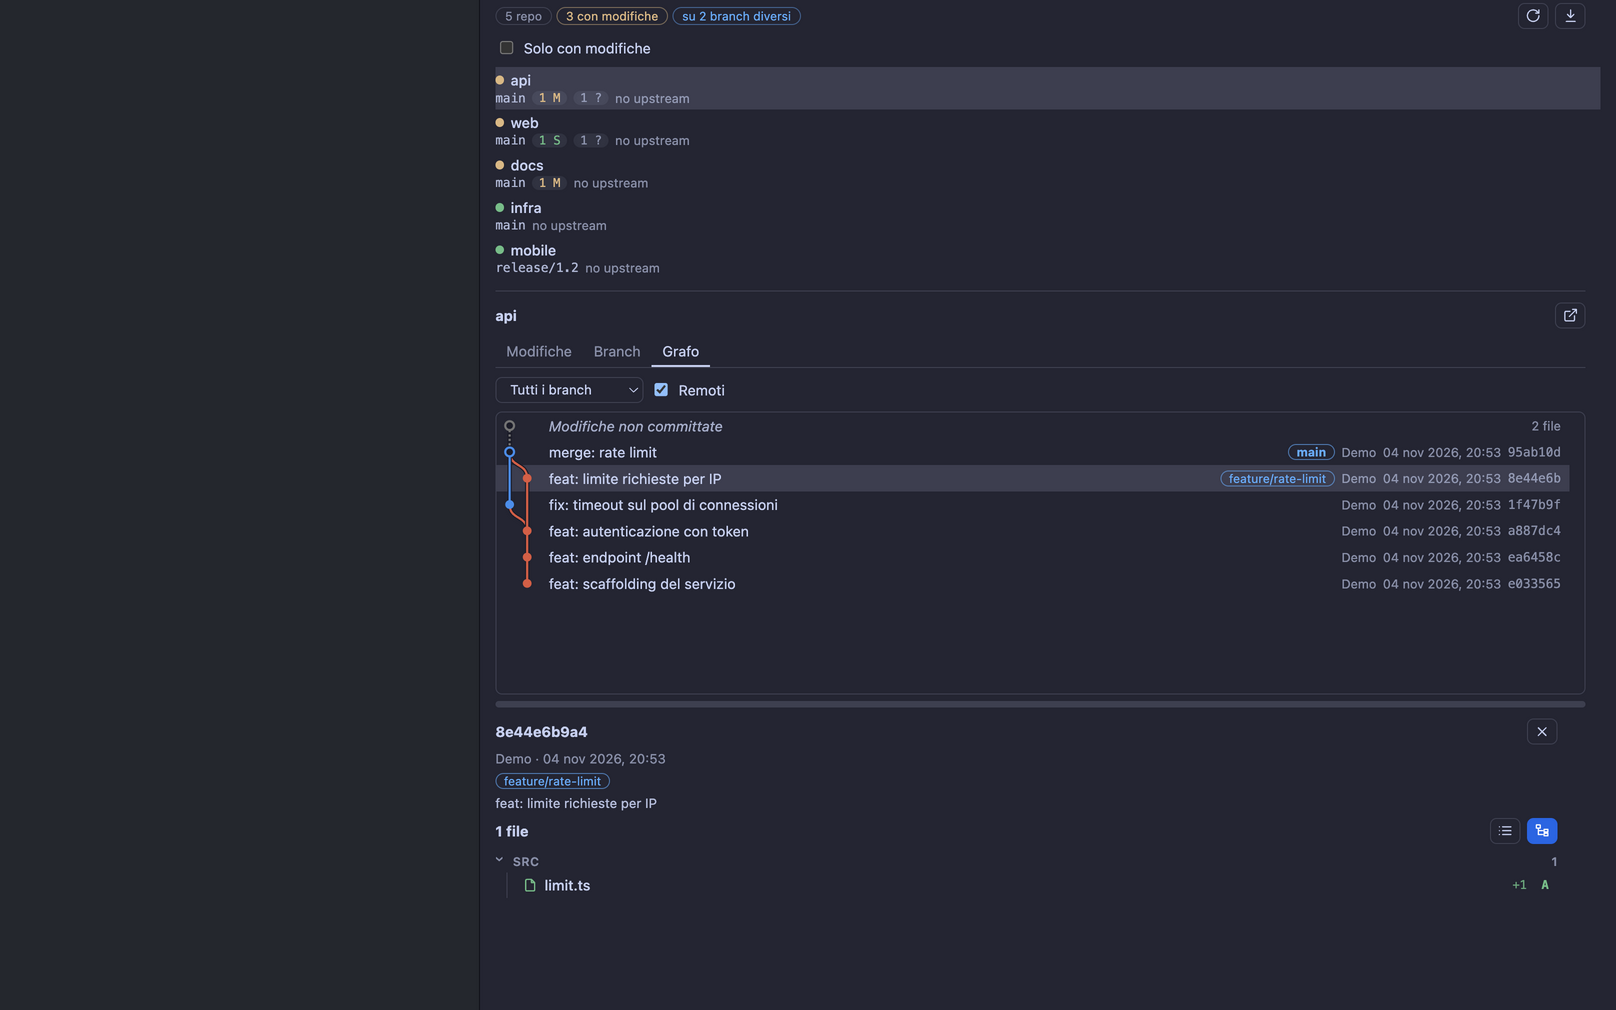
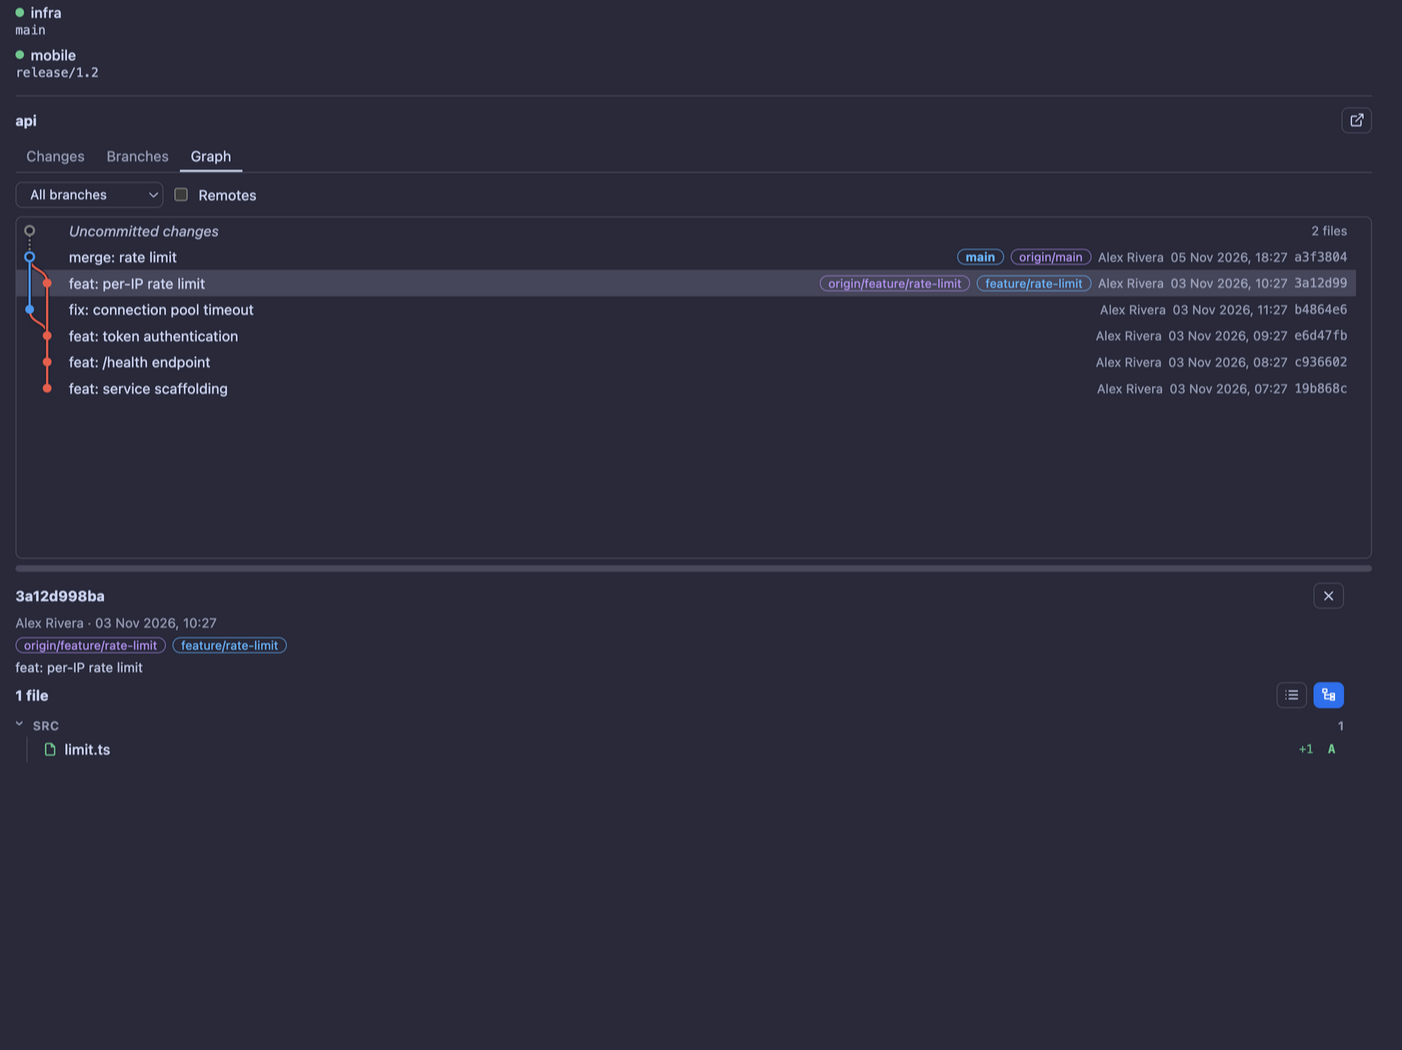
release 0.1.5: fetch per repo con spinner, note che si chiudono, MIT, descrizione e screenshot rifatti
- fetch orchestrato dal pannello, un repo per richiesta (3 in parallelo), spinner sulla riga
- esito ok sparisce dopo 8 s, clic per chiudere, nota azzerata al cambio di workspace
- processi di lettura/fetch uccisi con SIGKILL allo scadere del timeout
- manifest: license MIT, descrizione orientata al problema, due screenshot e nuova cover
- README: apertura sul problema risolto

diff --git a/panel/main.ts b/panel/main.ts
@@ -14,6 +14,7 @@ import type {
   ChangedFile,
   FileCommit,
   FileEntry,
+  FetchResult,
   FileGroup,
   GraphCommit,
   RepoStatus,
@@ -85,6 +86,8 @@ const S = {
   tookMs: 0,
   failure: null as string | null,
   note: '',
+  /** Percorsi dei repo con un fetch in corso (spinner sulla riga). */
+  fetching: new Set<string>(),
   onlyDirty: false,
   tab: 'changes' as Tab,
   selected: null as string | null,
@@ -241,6 +244,8 @@ async function refresh(): Promise<void> {
 async function refreshOnce(): Promise<void> {
   try {
     const a = await req('repos.list');
+    // Gruppo diverso (cambio workspace): note e fetch del gruppo precedente non valgono più.
+    if (S.root && S.root !== a.root) S.note = '';
     S.repos = a.repos;
     S.root = a.root;
     S.source = a.source;
@@ -504,15 +509,52 @@ async function openRepo(repo: RepoStatus): Promise<void> {
   }
 }
 
-/** Il worker fa fetch a 3 alla volta, 120 s al massimo ciascuno: la richiesta non può durare meno. */
-const FETCH_ALL_TIMEOUT_MS = 600_000;
+/** Fetch contemporanei (come la coda del worker) e tetto per singolo repo: il timer parte solo a fetch avviato. */
+const FETCH_PARALLEL = 3;
+const NOTE_OK_MS = 8_000;
+const FETCH_TIMEOUT_MS = 130_000;
 
 async function fetchAll(): Promise<void> {
+  if (S.fetching.size) return;
+  const repos = [...S.repos];
+  const t0 = Date.now();
+  const results: FetchResult[] = [];
+  const queue = [...repos];
   S.note = t('fetchRunning');
+  S.fetching = new Set();
   render();
-  const r = await call('Fetch', 'repos.fetch', undefined, FETCH_ALL_TIMEOUT_MS);
-  if (r) {
-    S.note = fetchReport(r.results, r.tookMs, t);
+  const worker = async (): Promise<void> => {
+    for (let r = queue.shift(); r; r = queue.shift()) {
+      S.fetching.add(r.path);
+      render();
+      try {
+        const o = await req('repo.fetch', { path: r.path }, FETCH_TIMEOUT_MS);
+        results.push({ name: r.name, error: o.error });
+      } catch (e) {
+        results.push({ name: r.name, error: msg(e) });
+      } finally {
+        S.fetching.delete(r.path);
+        render();
+      }
+    }
+  };
+  try {
+    await Promise.all(Array.from({ length: FETCH_PARALLEL }, worker));
+    const report = fetchReport(results, Date.now() - t0, t);
+    S.note = report;
+    // Esito tutto ok: sparisce da solo; con errori resta finché non si clicca.
+    if (!results.some((x) => x.error)) {
+      setTimeout(() => {
+        if (S.note === report) {
+          S.note = '';
+          render();
+        }
+      }, NOTE_OK_MS);
+    }
+  } catch (e) {
+    S.note = `Fetch: ${msg(e)}`;
+  } finally {
+    S.fetching = new Set();
   }
   await refresh();
 }
@@ -612,7 +654,9 @@ function repoRow(r: RepoStatus): HTMLElement {
     h(
       'div',
       { class: 'title frow' },
-      h('span', { class: `dot d-${state}` }),
+      S.fetching.has(r.path)
+        ? h('span', { class: 'spin', title: t('fetchRunning') })
+        : h('span', { class: `dot d-${state}` }),
       h('span', { class: 'fname' }, r.name),
       arrows,
     ),
@@ -1389,7 +1433,19 @@ function render(): void {
       t('onlyDirty'),
     ),
     S.failure && h('div', { class: 'note err' }, S.failure),
-    S.note && h('div', { class: 'note warn' }, S.note),
+    S.note &&
+      h(
+        'div',
+        {
+          class: 'note warn',
+          title: t('tipDismiss'),
+          onclick: () => {
+            S.note = '';
+            render();
+          },
+        },
+        S.note,
+      ),
     viewRepos(),
     h('hr'),
     viewDetail(),
@@ -1467,7 +1523,7 @@ hr { width:100%; border:0; border-top:1px solid var(--line); margin:2px 0 }
 .title { font-weight:500; overflow:hidden; text-overflow:ellipsis; white-space:nowrap }
 .desc { font-size:11.5px; color:var(--dim); overflow:hidden; text-overflow:ellipsis; white-space:nowrap }
 .repo { padding-top:6px; padding-bottom:6px } .repo .desc { margin-top:2px; gap:6px }
-.dot { flex:none; width:8px; height:8px; border-radius:50% } .d-ok { background:#73c991 } .d-warn { background:#e2c08d } .d-info { background:#6cb6ff }
+.dot { flex:none; width:8px; height:8px; border-radius:50% } .spin { flex:none; width:8px; height:8px; box-sizing:border-box; border-radius:50%; border:1.5px solid color-mix(in srgb, var(--orca-foreground) 25%, transparent); border-top-color:var(--orca-foreground); animation:spin .8s linear infinite } @keyframes spin { to { transform:rotate(360deg) } } .d-ok { background:#73c991 } .d-warn { background:#e2c08d } .d-info { background:#6cb6ff }
 .d-danger { background:#f0705f } .d-err { background:transparent; border:1.5px solid #f0705f; box-sizing:border-box }
 .arrows { flex:none; font:11.5px ui-monospace,monospace; color:var(--dim) } .branch { color:var(--orca-foreground); opacity:.85 }
 .err-text { color:var(--c-danger) }

diff --git a/src/worker.ts b/src/worker.ts
@@ -35,7 +35,11 @@ import type {
 const run = promisify(execFile);
 const STATUS_BAR_POLL_MS = 120_000;
 
-const GIT_ENV = { ...process.env, GIT_OPTIONAL_LOCKS: '0', GIT_TERMINAL_PROMPT: '0' };
+const GIT_ENV = {
+  ...process.env,
+  GIT_OPTIONAL_LOCKS: '0',
+  GIT_TERMINAL_PROMPT: '0',
+};
 const MAX_FILES = 2000;
 const GRAPH_MAX = 2000;
 /** Code separate: un fetch lento su ssh non deve far aspettare lo stato dei repo. */
@@ -58,6 +62,7 @@ async function git(
       run('git', ['-c', 'core.fsmonitor=false', '-c', 'color.ui=never', ...args], {
         cwd,
         timeout,
+        killSignal: 'SIGKILL' as const,
         maxBuffer: 8 << 20,
         env: GIT_ENV,
       }),
@@ -585,20 +590,15 @@ export default function activate(orca: OrcaWorkerApi): void {
       throw new Error('path outside the repository');
   }
 
-  orca.panels.handle('repos.fetch', async () => {
-    const t0 = Date.now();
-    const { root } = await resolveRoot(orca);
-    const names = await repoNames(root);
-    const results: FetchResult[] = await Promise.all(
-      names.map((name) =>
-        git(join(root, name), ['fetch', '--quiet', '--no-tags'], 120_000, fetchSlot).then(
-          () => ({ name }),
-          (e: Error) => ({ name, error: gitErrorLine(String(e.message)) }),
-        ),
-      ),
-    );
+  orca.panels.handle('repo.fetch', async ({ path }) => {
+    await assertRepo(path);
+    try {
+      await git(path, ['fetch', '--quiet', '--no-tags'], 120_000, fetchSlot);
+    } catch (e) {
+      return { error: gitErrorLine(String((e as Error).message)) };
+    }
     void updateStatusBar();
-    return { total: names.length, results, tookMs: Date.now() - t0 };
+    return {};
   });
 
   async function scanRepos(): Promise<{

diff --git a/src/protocol.ts b/src/protocol.ts
@@ -91,14 +91,10 @@ declare module 'orca' {
       input: { repoPath: string; file: string };
       output: { opened: boolean };
     };
-    /** Scrive su .git (refs remoti): solo su azione esplicita dell'utente. */
-    'repos.fetch': {
-      output: {
-        total: number;
-        /** Un esito per repo, nell'ordine di scansione; `error` assente = riuscito. */
-        results: FetchResult[];
-        tookMs: number;
-      };
+    /** Scrive su .git (refs remoti): solo su azione esplicita dell'utente. Un repo per richiesta. */
+    'repo.fetch': {
+      input: { path: string };
+      output: { error?: string };
     };
     'file.diff': {
       input: { path: string; file: string; group: FileGroup };

diff --git a/shared/i18n.ts b/shared/i18n.ts
@@ -110,6 +110,7 @@ const en = {
   commitErr: 'Commit: {msg}',
   tipCloseDetail: 'Close detail',
   tipSplitter: 'Drag to resize list and detail',
+  tipDismiss: 'Click to dismiss',
   // editor diff
   diffInvalid: 'Invalid file',
   diffBinary: 'Binary file: no text diff.',
@@ -221,6 +222,7 @@ const it: Record<Key, string> = {
   commitErr: 'Commit: {msg}',
   tipCloseDetail: 'Chiudi il dettaglio',
   tipSplitter: 'Trascina per ridimensionare lista e dettaglio',
+  tipDismiss: 'Clic per chiudere',
   diffInvalid: 'File non valido',
   diffBinary: 'File binario: nessun diff testuale.',
   diffNone: 'Nessuna differenza testuale.',

diff --git a/README.md b/README.md
@@ -1,9 +1,13 @@
 # Git Overview
 
-A multi-repository overview for [Orca](https://github.com/stablyai/orca): the git state of **every
-repository inside the active workspace folder** in one right-sidebar panel. It is built for containers
-that hold several repos without a common `.git` (for example `project/api`, `project/web`,
-`project/docs`).
+Orca's Source Control shows one repository at a time. If your project is a folder with several
+repositories and no common `.git` (for example `project/api`, `project/web`, `project/docs`), you
+end up opening each one to find out which has pending work, which is behind its remote and which
+is on the wrong branch.
+
+This plugin puts **every repository inside the active workspace folder** in one right-sidebar panel
+of [Orca](https://github.com/stablyai/orca): status at a glance, a summary ("3 with changes",
+"on 2 different branches") and a single **Fetch** for all of them.
 
 ## How it relates to Orca's Source Control
 
